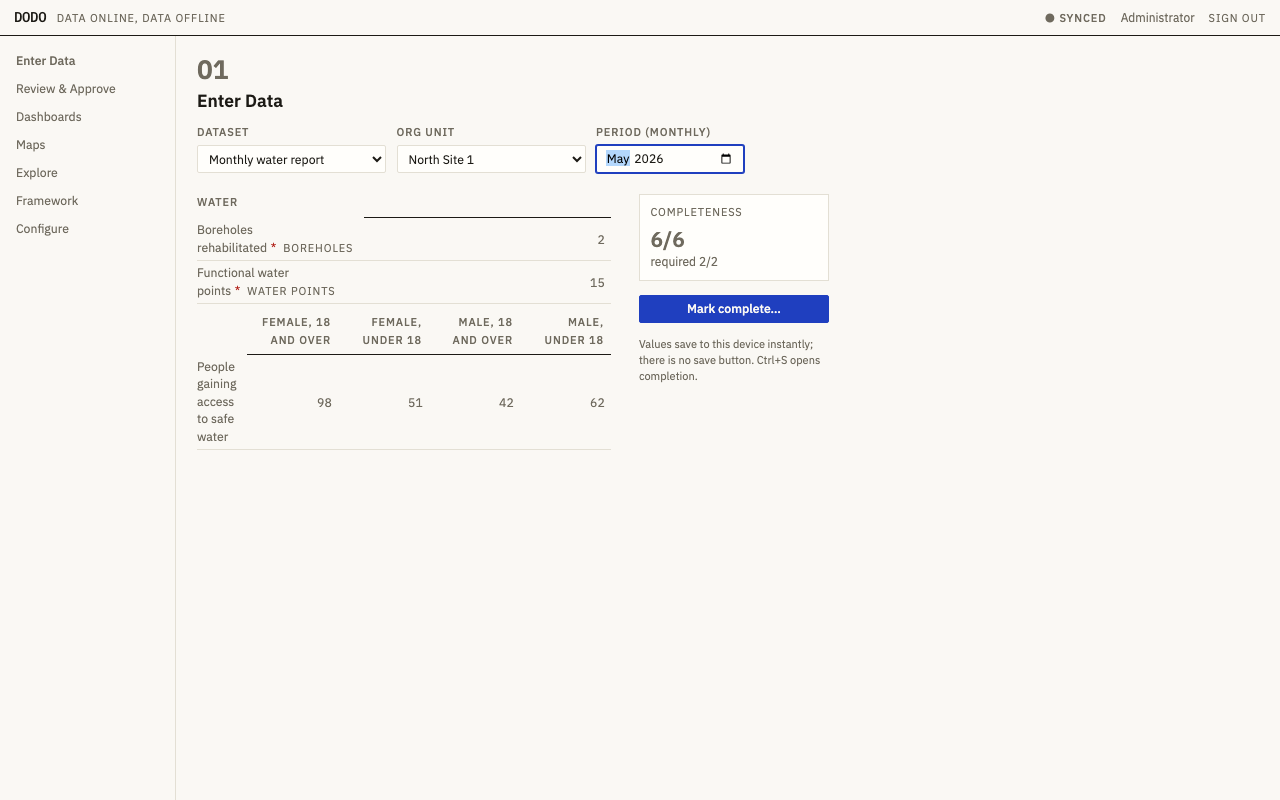
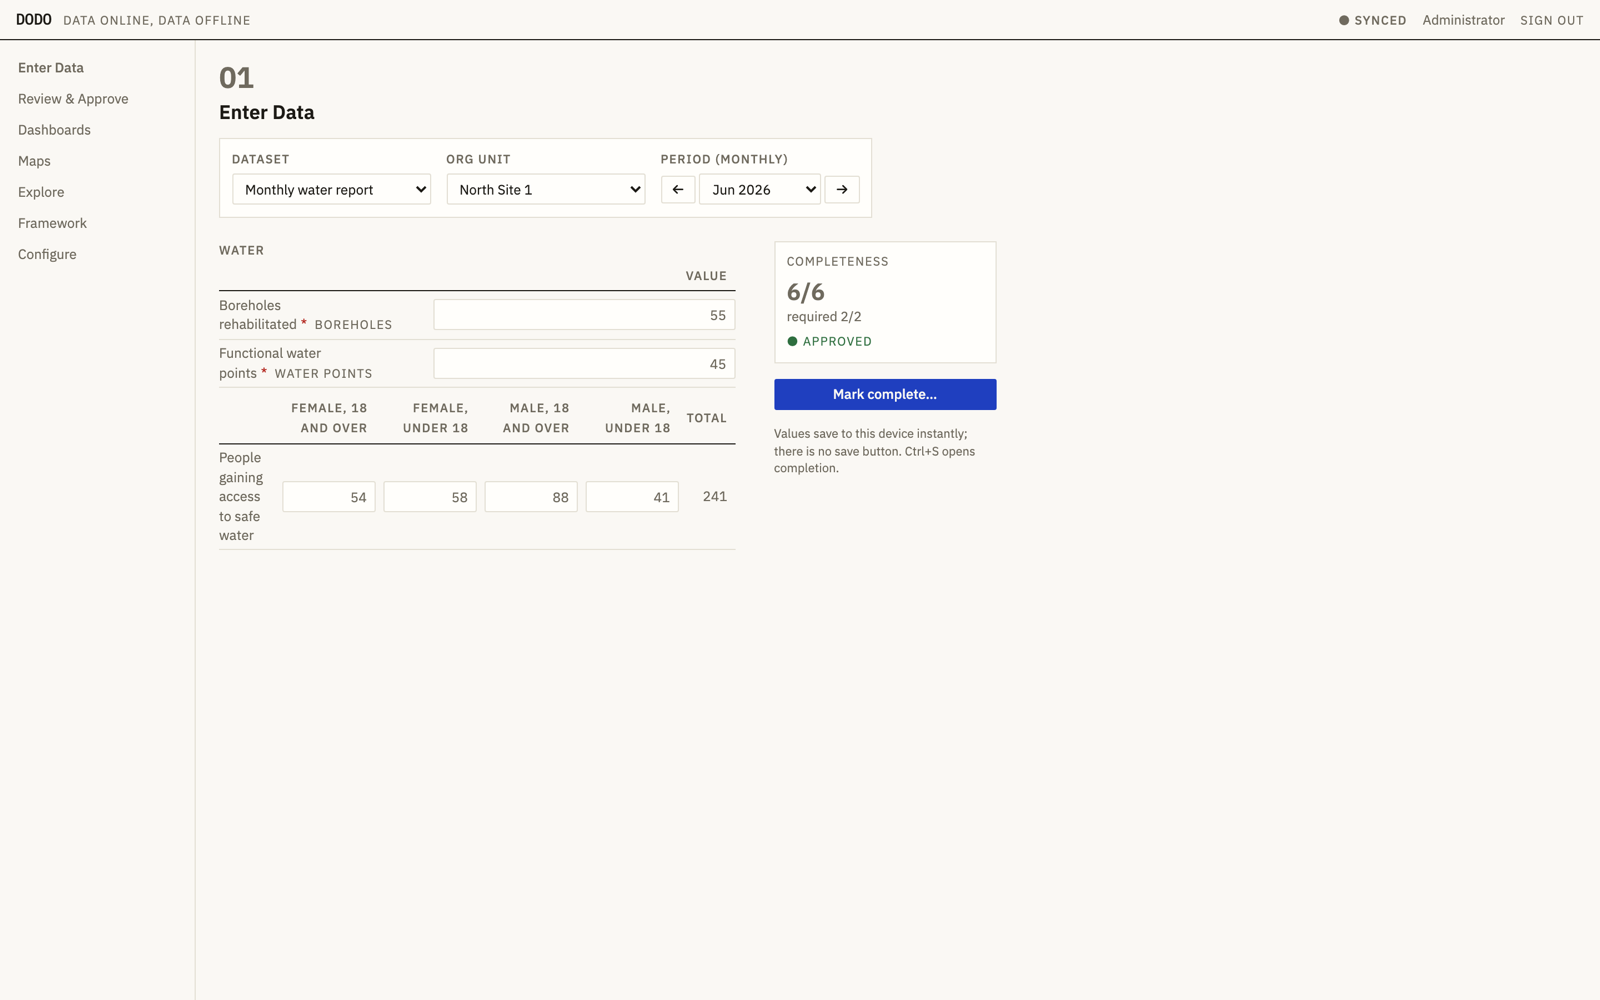
document entry, dashboard and map improvements

diff --git a/README.md b/README.md
@@ -23,14 +23,39 @@ forms, validation, approvals, dashboards, and maps — through the UI.
   Single-VM friendly, `pg_dump` backups, configuration shared as one
   `metadata.json` bundle.
 
-![Explore](docs/screenshots/explore.png)
+## What you get
+
+- **Spreadsheet-style data entry.** Visible, keyboard-navigable cells with
+  per-cell save/sync/warning/error/conflict states, automatic disaggregation
+  totals, per-section completeness, and a "mark complete" flow that runs
+  every validation rule. Values save to the device instantly — there is no
+  save button.
+- **Validation that actually validates.** Value-type and option-set checks,
+  expression-based validation rules (run offline at entry and again on the
+  server), and **period entry windows** — closed and future periods cannot
+  be entered from the UI and are re-rejected on sync (a dataset's frequency,
+  `open future periods`, and `expiry days` define the window).
+- **Dashboards & analytics.** A drag-resize dashboard grid with KPI, chart,
+  map, pivot, and text widgets, an ad-hoc Explore pivot/chart builder, and
+  relative periods ("this year", "last 12 months") that aggregate the
+  underlying monthly data correctly. Last-fetched results are cached so
+  dashboards render offline with a "data as of" stamp.
+- **Thematic maps.** MapLibre choropleth of org-unit boundaries and facility
+  points coloured against target thresholds (≥100% / 70–99% / <70%), fully
+  offline from the on-device mirror, with optional self-hosted PMTiles
+  basemaps.
+
+![Dashboard](docs/screenshots/dashboard.png)
 ![Maps](docs/screenshots/maps.png)
+![Explore](docs/screenshots/explore.png)
 
 ## Quick start
 
 ```sh
 docker compose up --build -d         # server + postgres/postgis + caddy on :8080
-pnpm --filter @dodo/server seed      # optional: WASH demo with 18 months of data
+pnpm --filter @dodo/server seed      # optional: WASH demo — 40 org units with
+                                     # geometry, 12 indicators, 18 months of data,
+                                     # targets, and a ready-made overview dashboard
 ```
 
 Sign in as `admin` / `admin` (change it immediately). See the

diff --git a/docs/changelog.md b/docs/changelog.md
@@ -1,5 +1,37 @@
 # Changelog
 
+## Unreleased
+
+UX overhaul round 1 (research: DevResults, DHIS2 entry app, ActivityInfo)
+plus the period entry-window gap found in review:
+
+- Entry cells render as visible bordered inputs with hover/focus states and
+  whole-cell validation colors; disaggregated rows get automatic totals;
+  the dataset/org unit/period selector is a distinct toolbar.
+- Period entry windows (spec §7.3, previously missing): a shared
+  `periodOpenStatus` rule — frequency match, `openFuturePeriods`,
+  `expiryDays` — drives a bounded period stepper in the entry UI (future
+  periods cannot be selected) and is re-enforced on sync push (future,
+  expired, wrong-frequency, and dataset-less values are rejected).
+- Explore: scrollable single-row chart legend (no more plot overlap),
+  pivot rows grouped by indicator, thousand separators; same legend fix in
+  dashboard chart widgets; KPI values get separators too.
+- Analytics period containment: a coarse relative period (e.g. "this year")
+  now aggregates the finer stored data it contains instead of string-matching
+  it, so "this year" over monthly data works. Stock/flow semantics are kept
+  per real period (a stock still takes the latest month, not the year as one
+  bucket).
+- Maps now render an administrative-boundary choropleth: regions carry
+  polygon geometry (a buffered convex hull over their sites in the demo
+  seed) coloured by aggregate-vs-target, with facility points on top — no
+  external basemap required. MapView is created once and updated via
+  `setData` (previously it was recreated on every data change, which raced
+  MapLibre's async load and blanked the canvas); added a `ResizeObserver` so
+  the canvas tracks its container.
+- Demo seed now creates a ready-made "WASH overview" dashboard (3 KPIs,
+  trend line, coverage map, monthly bars, % female pivot) and seeds targets
+  for the headline indicators so the map shows a real green/amber/red spread.
+
 ## M7 — Polish & release — v0.1.0 (2026-06-12)
 
 First tagged release. All seven milestones complete with their spec §12
